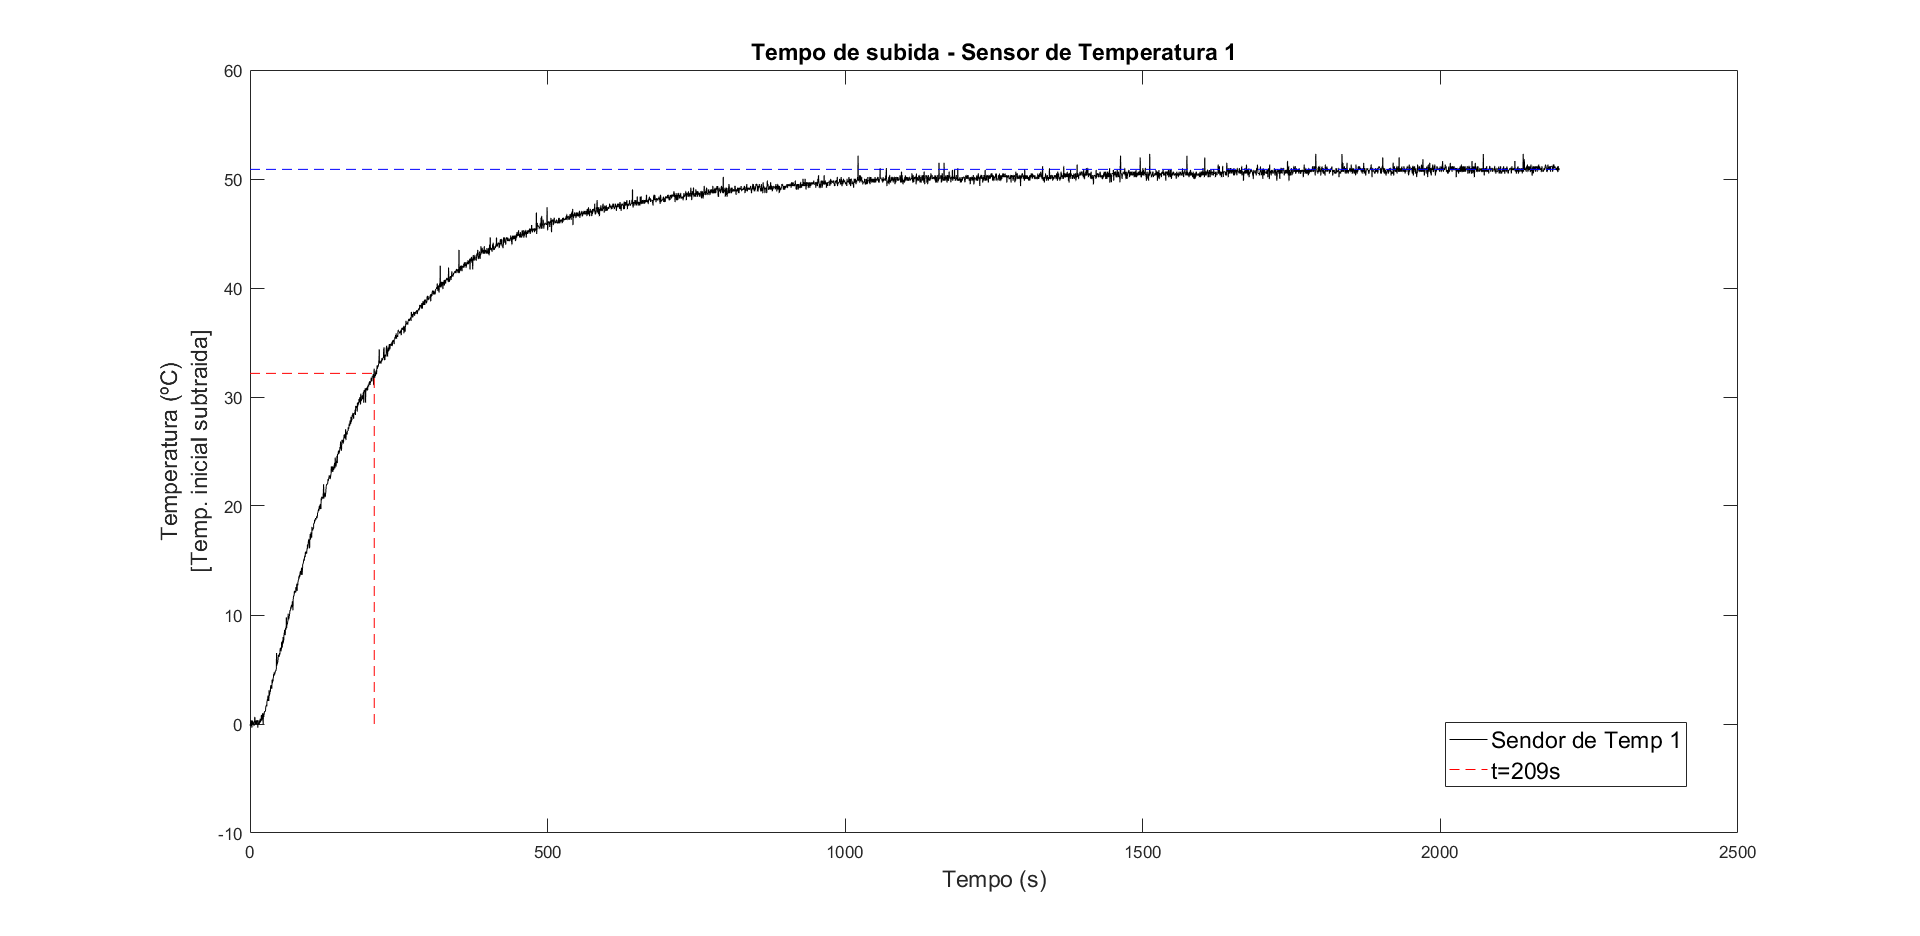
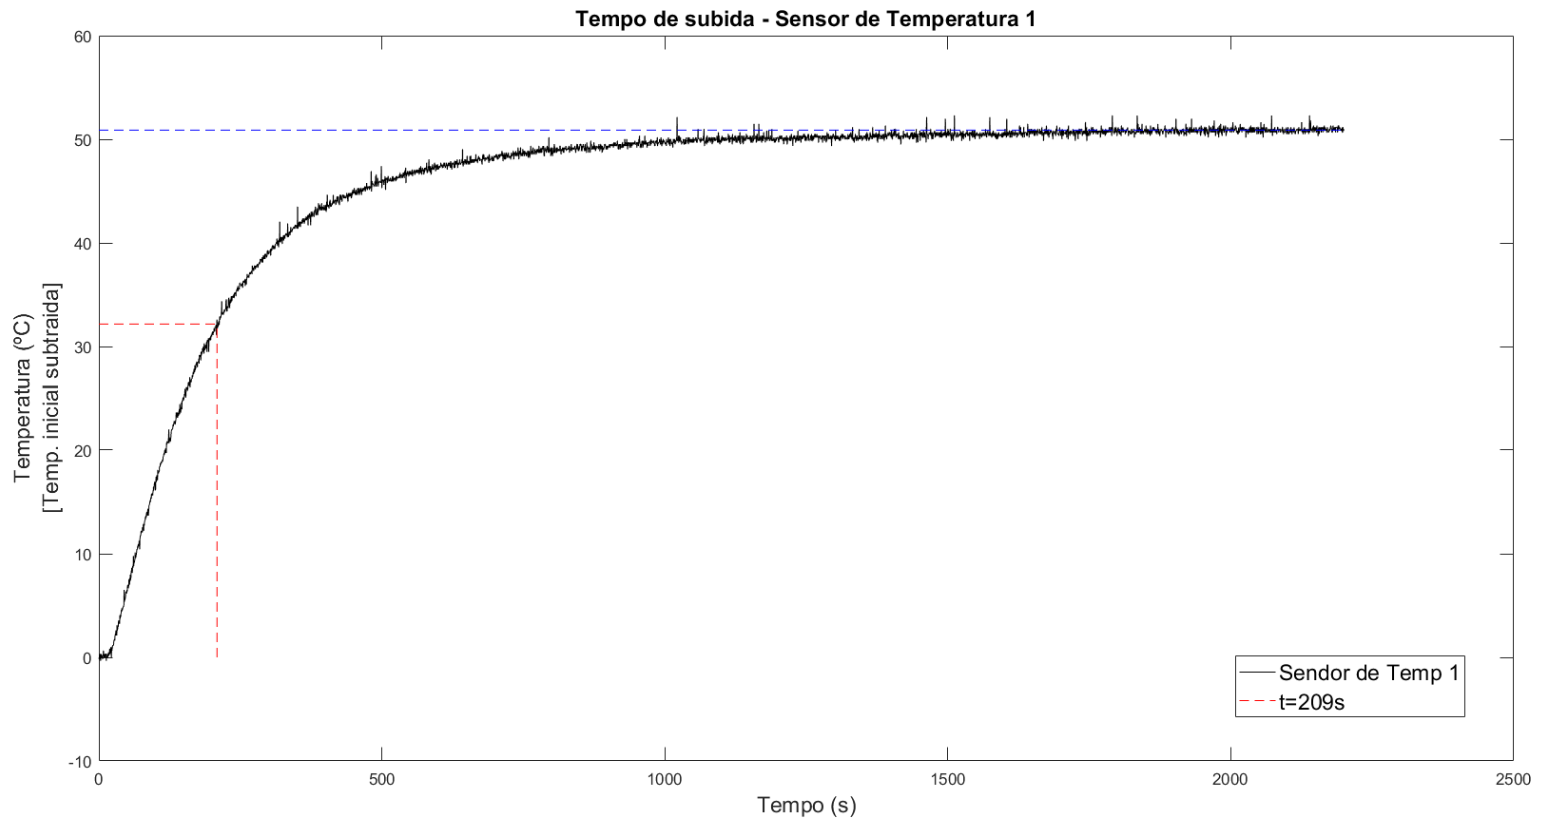
Pequenos ajustes em Metodos e Apendice B

diff --git a/2_content/metodos.tex b/2_content/metodos.tex
@@ -70,7 +70,7 @@ Sensores de Temperatura 1 e 2 para um sistema de primeira ordem, a fim de obter 
 \begin{figure}[h]
 	\caption{Tempo de subida - Sensor de Temperatura 1}
 	\begin{center}
-		\includegraphics[width=0.85\textwidth]{./5_images/RiseTime-TempSensor1.png} 
+		\includegraphics[width=0.95\textwidth]{./5_images/RiseTime-TempSensor1.png} 
 		\label{fig:rise_time_sensor1}
 	\end{center}
 	\centering
@@ -80,7 +80,7 @@ Sensores de Temperatura 1 e 2 para um sistema de primeira ordem, a fim de obter 
 \begin{figure}[h]
 	\caption{Tempo de subida - Sensor de Temperatura 1}
 	\begin{center}
-		\includegraphics[width=0.85\textwidth]{./5_images/RiseTime-TempSensor2.png} 
+		\includegraphics[width=0.95\textwidth]{./5_images/RiseTime-TempSensor2.png} 
 		\label{fig:rise_time_sensor2}
 	\end{center}
 	\centering
@@ -90,7 +90,7 @@ Sensores de Temperatura 1 e 2 para um sistema de primeira ordem, a fim de obter 
 As \cref{fig:rise_time_sensor1,fig:rise_time_sensor2} mostram a resposta em malha aberta dos Sensores de
 Temperatura 1 e 2, respectivamente, a uma entrada degrau no Aquecedor 1. Este ensaio foi realizado com
 um período de amostragem de 0,5s, e com ele foi possível observar um tempo de subida $\tau_1 = 209s$ para
-o Sensor 1 e $\tau_2 = 306s$ para o Sensor 2.
+o Sensor 1 e $\tau_2 = 383s$ para o Sensor 2.
 % TODO: Fazer mais ensaios com step 0 -> 50
 % TODO: Recortar as imagens para remover bordas brancas
 
@@ -166,7 +166,7 @@ Aquecedores 1 e 2.
 \begin{figure}[h]
 	\caption{Sinais de entrada nos Aquecedores 1 e 2}
 	\begin{center}
-		\includegraphics[width=0.85\textwidth]{./5_images/inputs_H1H2.png} 
+		\includegraphics[width=0.95\textwidth]{./5_images/inputs_H1H2.png} 
 		\label{fig:experiment_inputs}
 	\end{center}
 	\centering

diff --git a/3_posText/apendices.tex b/3_posText/apendices.tex
@@ -172,12 +172,13 @@ pode ver vista na \cref{tab:delta_action}
 	\caption{Efeito do $\Delta$ no tempo de amostragem}
 	\label{tab:delta_action}
 	\begin{tabular}{cccccc} \toprule
-		{k}		& {$\Delta=1$}		& {$\Delta=2$}		& {$\cdots$}	& {$\Delta=4$}	& {$\cdots$} 	\\ \midrule
-		1		& $0.00$			& $0.00$			& \hfill		& $0.00$		& \hfill		\\
-		2		& $0.25$			& $0.50$			& \hfill		& $1.00$		& \hfill		\\
-		3		& $0.50$			& $1.00$			& \hfill		& $2.00$		& \hfill		\\
-		4		& $0.75$			& $0.50$			& \hfill		& $3.00$		& \hfill		\\
-		5		& $1.00$			& $2.00$			& \hfill		& $4.00$		& \hfill		\\ \bottomrule 
+		{k}			& {$\Delta=1$}		& {$\Delta=2$}		& {$\cdots$}	& {$\Delta=4$}	& {$\cdots$} 	\\ \midrule
+		1			& $0.00$			& $0.00$			& \hfill		& $0.00$		& \hfill		\\
+		2			& $0.25$			& $0.50$			& \hfill		& $1.00$		& \hfill		\\
+		3			& $0.50$			& $1.00$			& \hfill		& $2.00$		& \hfill		\\
+		4			& $0.75$			& $0.50$			& \hfill		& $3.00$		& \hfill		\\
+		5			& $1.00$			& $2.00$			& \hfill		& $4.00$		& \hfill		\\ 
+		$\vdots$	& $\vdots$			& $\vdots$			& \hfill		& $\vdots$		& \hfill		\\ \bottomrule 
 	\end{tabular}
 	\caption*{Fonte: Autor}
 \end{table}
